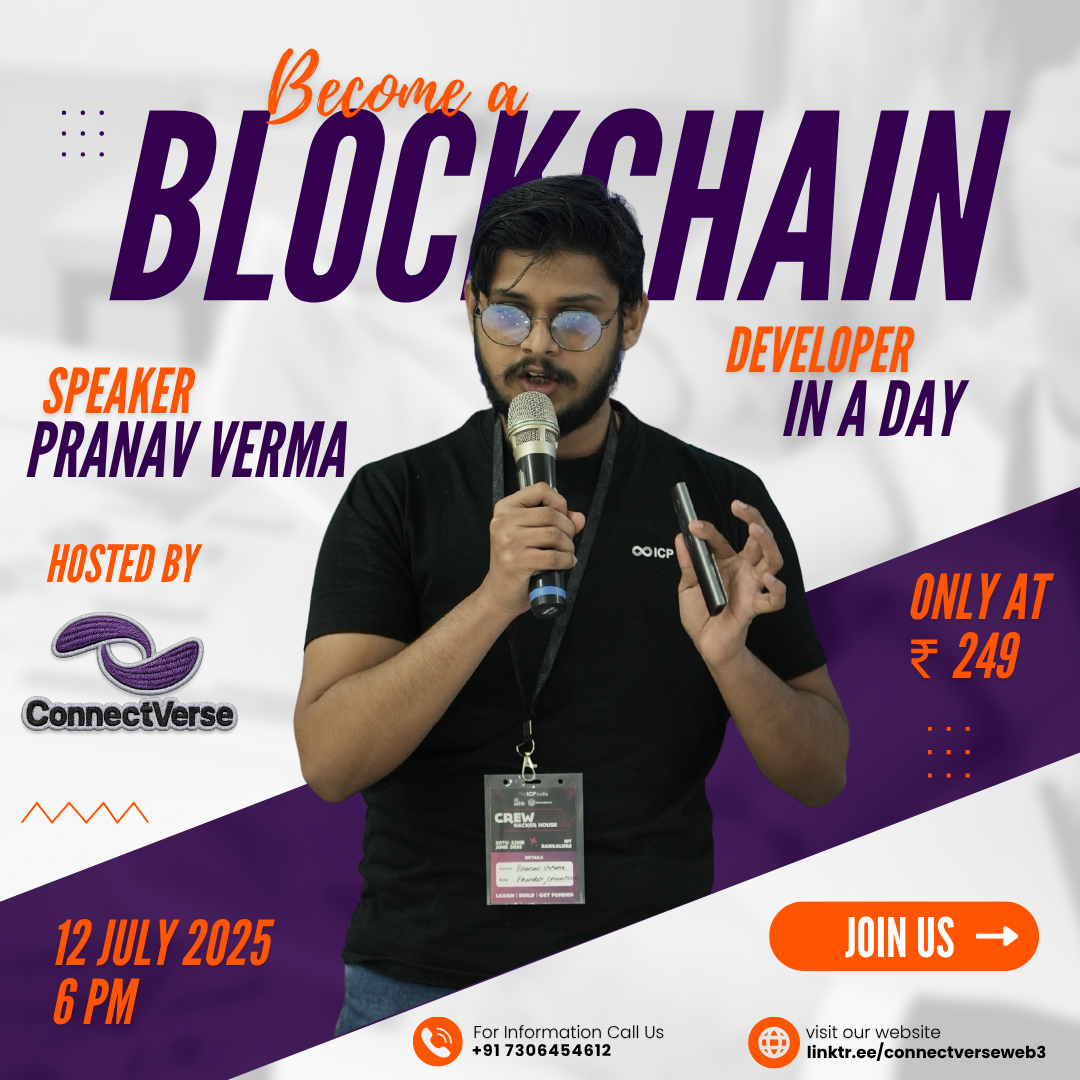
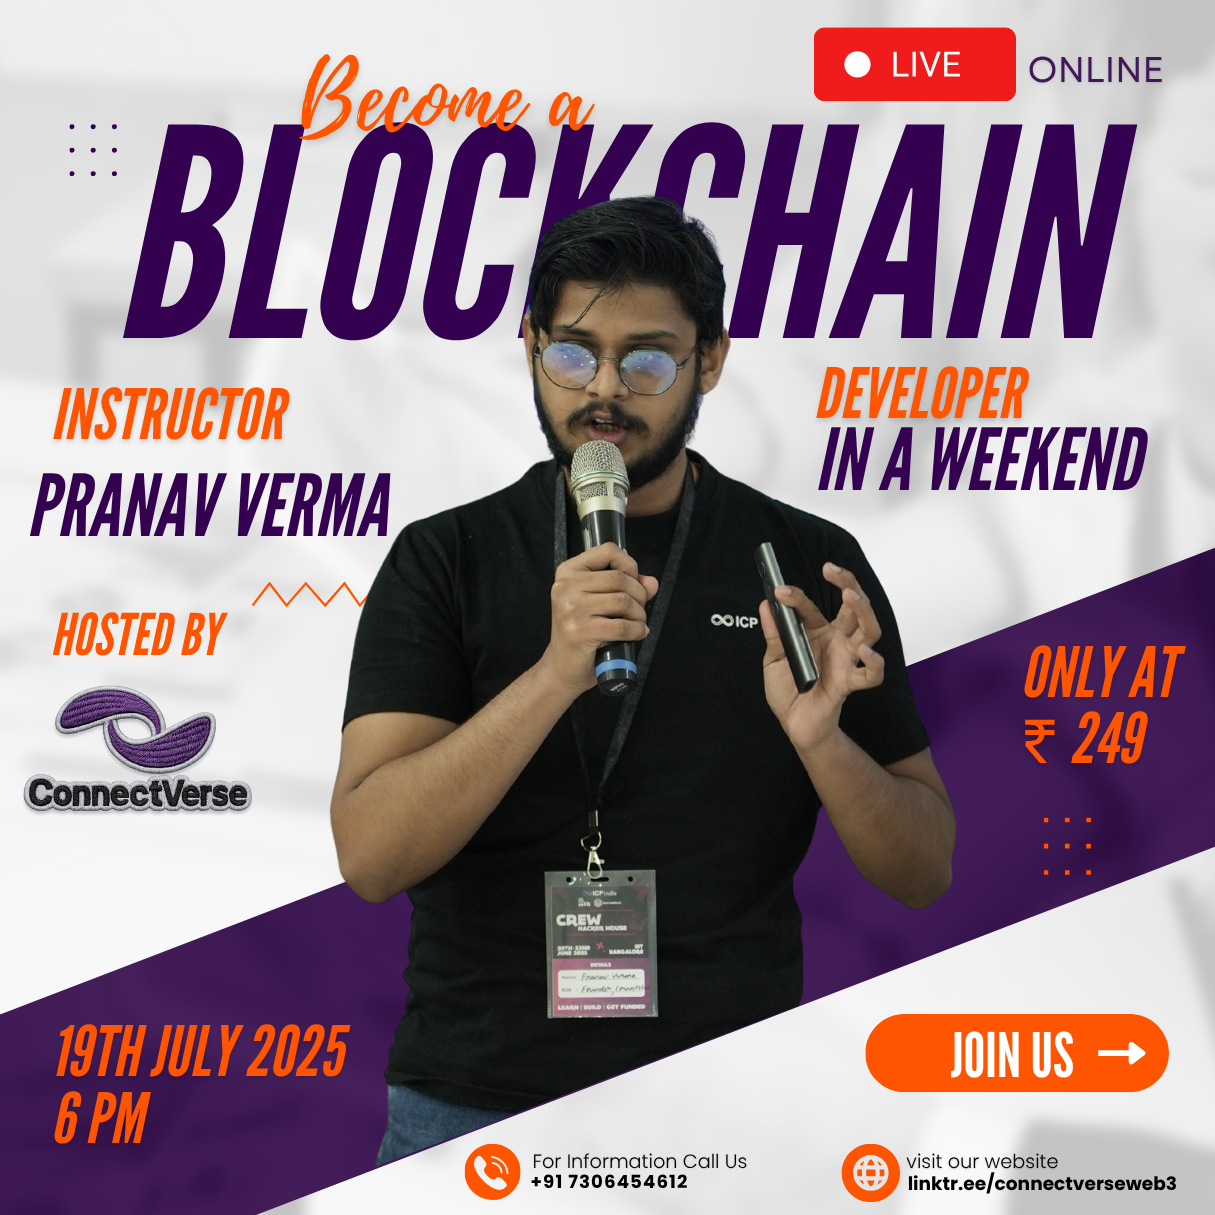
Add files via upload

diff --git a/index.html b/index.html
@@ -688,7 +688,7 @@
                 <i class="fas fa-bars"></i>
             </button>
             <nav class="nav-links" id="navLinks">
-                <a href="https://linktr.ee/connectverseweb3" style="text-decoration: none;">Join us today</a>
+                <a href="https://payments.cashfree.com/forms/connectverse" style="text-decoration: none;">Join us today</a>
             </nav>
         </div>
     </header>
@@ -701,17 +701,40 @@
                     <nav aria-label="breadcrumb" style="margin-bottom: 15px;">
                         <a href="https://linktr.ee/connectverseweb3" style="color: var(--gray); text-decoration: none;">ConnectVerse</a> 
                         <span style="margin: 0 5px; color: var(--gray);">»</span> 
-                        <a href="#" style="color: var(--gray); text-decoration: none;">Become a Blockchain Developer in a Day</a>
+                        <a href="#" style="color: var(--gray); text-decoration: none;">Become a Blockchain Developer in a Weekend!</a>
                     </nav>
-                    <h1>Become a Blockchain Developer in a Day</h1>
+                    <h1>Become a Blockchain Developer in a Weekend !</h1>
                     <p>From learning Web3 to Landing ₹50 LPA Jobs</p>
+                    <div class="hurry" style="color:#ef233c">
+                    Offer ends in 3 days!
+                </div>
+                
+                <style>
+                    
+                    @media (max-width: 767px) {
+                    .hurry {
+                        background: #ff3e3e;
+                        color: rgb(216, 11, 11);
+                        padding: 8px 15px;
+                        border-radius: 4px;
+                        font-family: Arial, sans-serif;
+                        font-size: 14px;
+                        font-weight: bold;
+                        text-align: center;
+                        display: inline-block;
+                        margin: 5px;
+                    display: inline-block;
+                    animation: pulse 1.5s infinite;
+                        display: none ;
+                    }}
+                </style>
                     
                     <div class="price-section">
                         <span class="current-price">₹249</span>
-                        <span class="original-price">₹9999</span>
+                        <span class="original-price">₹3750</span>
                     </div>
                     
-                    <a href="#" class="cta-button">
+                    <a href="https://payments.cashfree.com/forms/connectverse" class="cta-button">
                         <button class="cta-button" style="border: none; background-color: var(--primary); color: white; padding: 12px 30px; border-radius: 5px; font-weight: 600; text-decoration: none; transition: all 0.3s ease; margin-bottom: 30px;">Purchase this course to get access</button>
                         
                        
@@ -743,7 +766,7 @@
                         <span>Find Us:</span>
                         <a href="https://instagram.com/pranavverma213"><i class="fab fa-instagram"></i></a>
                         <a href="https://x.com/pranavvtweet"><i class="fab fa-twitter"></i></a>
-                        <a href="https://linkedin.com/in/k-abhiram"><i class="fab fa-linkedin"></i></a>
+                        <a href="https://www.linkedin.com/in/pranav-verma-0537b1214/"><i class="fab fa-linkedin"></i></a>
                         <a href="https://wa.me/+917306454612"><i class="fab fa-whatsapp"></i></a>
                     </div>
                 </div>
@@ -755,11 +778,41 @@
         <br>
 
         <div class="hero-content-mobile" style="display: flex; flex-direction: column; align-items: center; justify-content: center; gap: 2px;">
+
+            <div style="
+            width:100%;
+            background: #ff3e3e;
+    color: white;
+    padding: 8px 15px;
+    border-radius: 4px;
+    font-family: Arial, sans-serif;
+    font-size: 14px;
+    font-weight: bold;
+    text-align: center;
+    display: inline-block;
+    margin: 5px;
+            display: inline-block;
+            animation: pulse 1.5s infinite;
+        ">
+            Hurry Up, Offer ends in 3 days!
+        </div>
+        
+        <style>
+            @keyframes pulse {
+                0% { transform: scale(1); }
+                50% { transform: scale(1.05); }
+                100% { transform: scale(1); }
+            }
+        </style>
             <div class="price-section-mobile">
                 <span class="current-price">₹249</span>
-                <span class="original-price">₹9999</span>
+                <span class="original-price">₹3750</span>
             </div>
+        
+           
+            <a href="https://payments.cashfree.com/forms/connectverse">
             <button class="cta-button-mobile" style="border: none; background-color: var(--primary); color: white; padding: 12px 30px; border-radius: 5px; font-weight: 600; text-decoration: none; transition: all 0.3s ease; margin-bottom: 30px;">Purchase this course to get access</button>
+        </a>
         
         </div>
 
@@ -824,16 +877,30 @@
         <div class="container">
             <div class="section-title">
                 <h2>Bootcamp Schedule</h2>
-                <p>Expand all sections</p>
+                
                 <p>14 sections • 10hr bootcamp period</p>
             </div>
+
+
+            <center>
+               
+                <h3>
+
+                    ✅ Day 1 Begins — 19th July, 6:00 PM
+                    
+
+        </h3>
+      
+                    <p style="font-size: 18px;">Expand all sections to see topics covered</p>
+        <br>
+        </center>
             
             <div class="accordion" id="courseAccordion">
                 <!-- Section 1 -->
                 <div class="accordion-item">
                     <div class="accordion-header">
                         <span>The History of Money & Why Bitcoin</span>
-                        <span>4 lectures • 30min</span>
+                        <span>4 lectures • 30min  </span>
                     </div>
                     <div class="accordion-content">
                         <div class="accordion-content-inner">
@@ -872,7 +939,7 @@
                 <div class="accordion-item">
                     <div class="accordion-header">
                         <span>How Centralized Systems Work</span>
-                        <span>3 lectures • 30min</span>
+                        <span>3 lectures • 30min </span>
                     </div>
                     <div class="accordion-content">
                         <div class="accordion-content-inner">
@@ -904,7 +971,7 @@
                 <div class="accordion-item">
                     <div class="accordion-header">
                         <span>Blockchain Deep Dive</span>
-                        <span>4 lectures • 45min</span>
+                        <span>4 lectures • 45min </span>
                     </div>
                     <div class="accordion-content">
                         <div class="accordion-content-inner">
@@ -961,7 +1028,7 @@
                 <div class="accordion-item">
                     <div class="accordion-header">
                         <span>Bitcoin vs Ethereum</span>
-                        <span>4 lectures • 45min</span>
+                        <span>4 lectures • 45min </span>
                     </div>
                     <div class="accordion-content">
                         <div class="accordion-content-inner">
@@ -1000,7 +1067,7 @@
                 <div class="accordion-item">
                     <div class="accordion-header">
                         <span>Wallets & Testnets</span>
-                        <span>4 lectures • 45min</span>
+                        <span>4 lectures • 45min </span>
                     </div>
                     <div class="accordion-content">
                         <div class="accordion-content-inner">
@@ -1042,7 +1109,7 @@
                 <div class="accordion-item">
                     <div class="accordion-header">
                         <span>Gas Fees & The EVM</span>
-                        <span>4 lectures • 45min</span>
+                        <span>4 lectures • 45min </span>
                     </div>
                     <div class="accordion-content">
                         <div class="accordion-content-inner">
@@ -1081,7 +1148,7 @@
                 <div class="accordion-item">
                     <div class="accordion-header">
                         <span>Solidity 101 - First Smart Contract</span>
-                        <span>2 lectures • 45min</span>
+                        <span>2 lectures • 45min </span>
                     </div>
                     <div class="accordion-content">
                         <div class="accordion-content-inner">
@@ -1106,7 +1173,7 @@
                 <!-- Break Section 2 -->
                 <div class="accordion-item">
                     <div class="accordion-header" style="background-color: #c7f4bc;">
-                        <span>Day 1 Completed</span>
+                        <span>Day 1 Completed </span>
                         <span>👋</span>
                     </div>
                     <div class="accordion-content">
@@ -1122,10 +1189,19 @@
                     </div>
                 </div>
                 <!-- Section 8 -->
+                <center>
+               
+                    <h3>
+    
+                        ✅ Day 2 Begins — 20th July, 10 AM
+    
+            </h3>
+            <br>
+            </center>
                 <div class="accordion-item">
                     <div class="accordion-header">
                         <span>Create Your ERC20 Token</span>
-                        <span>4 lectures • 45min</span>
+                        <span>4 lectures • 45min </span>
                     </div>
                     <div class="accordion-content">
                         <div class="accordion-content-inner">
@@ -1167,7 +1243,7 @@
                 <div class="accordion-item">
                     <div class="accordion-header">
                         <span>Creating NFTs (ERC721)</span>
-                        <span>3 lectures • 45min</span>
+                        <span>3 lectures • 45min </span>
                     </div>
                     <div class="accordion-content">
                         <div class="accordion-content-inner">
@@ -1219,7 +1295,7 @@
                 <div class="accordion-item">
                     <div class="accordion-header">
                         <span>Build a To-Do DApp</span>
-                        <span>4 lectures • 45min</span>
+                        <span>4 lectures • 45min </span>
                     </div>
                     <div class="accordion-content">
                         <div class="accordion-content-inner">
@@ -1261,7 +1337,7 @@
                 <div class="accordion-item">
                     <div class="accordion-header">
                         <span>Traditional Finance vs DeFi</span>
-                        <span>4 lectures • 45min</span>
+                        <span>4 lectures • 45min </span>
                     </div>
                     <div class="accordion-content">
                         <div class="accordion-content-inner">
@@ -1300,7 +1376,7 @@
                 <div class="accordion-item">
                     <div class="accordion-header">
                         <span>How to Land ₹50 LPA+ Blockchain Jobs</span>
-                        <span>8 lectures • 45min</span>
+                        <span>8 lectures • 45min </span>
                     </div>
                     <div class="accordion-content">
                         <div class="accordion-content-inner">
@@ -1426,7 +1502,7 @@
                 <div class="accordion-item">
                     <div class="accordion-header">
                         <span>Final Q&A, Project Briefing, and Wrap-Up</span>
-                        <span>4 lectures • 60min</span>
+                        <span>4 lectures • 60min </span>
                     </div>
                     <div class="accordion-content">
                         <div class="accordion-content-inner">
@@ -1473,7 +1549,7 @@
                      <!-- Break Section 4 -->
                 <div class="accordion-item">
                     <div class="accordion-header" style="background-color: #c7f4bc;">
-                        <span>Day 2 Completed</span>
+                        <span>Day 2 Completed </span>
                         <span>👋</span>
                     </div>
                     <div class="accordion-content">
@@ -1546,7 +1622,7 @@
                 </div>
             </div>
             <div class="section-title">
-                <h3>This bootcamp is designed not only to teach you blockchain basics but to help you take real steps toward building a high-paying career in this exciting field.</h3>
+                <h3><i>"This bootcamp is designed not only to teach you blockchain basics but to help you take real steps toward building a high-paying career in this exciting field."</i></h3>
             </div>
         </div>
     </section>
@@ -1755,16 +1831,16 @@
                 <div class="footer-column">
                     <img style="width: 200px;" src="./src/logo/embroidery.png" />
                     <ul class="footer-links">
-                        <li><a href="https://linktr.ee/connectverseweb3">India's biggest Web3 Media Agency</a></li>
+                        <li><a href="https://linktr.ee/connectverseweb3">Crafting the future of Tech in India</a></li>
                     </ul>
                 </div>
                 <div class="footer-column">
                     <h3>Courses</h3>
                     <ul class="footer-links">
-                        <li><a href="#">Web Development</a></li>
+                        <li><a href="#">Web2 Development</a></li>
                         <li><a href="#">Blockchain Development</a></li>
                         <li><a href="#">Career Guidance</a></li>
-                        <li><a href="#">App Development</a></li>
+                      
                     </ul>
                 </div>
                 <div class="footer-column">

diff --git a/confirmation-ticket.html b/confirmation-ticket.html
@@ -279,7 +279,7 @@
                 <i class="fas fa-check"></i>
             </div>
             <h1>Enrollment Confirmed!</h1>
-            <p>Your spot in the Become a Blockchain Developer in a Day Bootcamp is secured</p>
+            <p>Your spot in the Become a Blockchain Developer in a Weekend Bootcamp is secured</p>
         </div>
         
         <!-- Ticket Body -->
@@ -306,11 +306,11 @@
                     </div>
                     <div class="detail-group">
                         <div class="detail-label">START DATE</div>
-                        <div class="detail-value">July 12, 2025</div>
+                        <div class="detail-value">July 19, 2025</div>
                     </div>
                     <div class="detail-group">
                         <div class="detail-label">DURATION</div>
-                        <div class="detail-value">1 Day (15 Hours)</div>
+                        <div class="detail-value">(10 to 12 Hours)</div>
                     </div>
                 </div>
             </div>
@@ -365,3 +365,5 @@
     </script>
 </body>
 </html>
+
+
